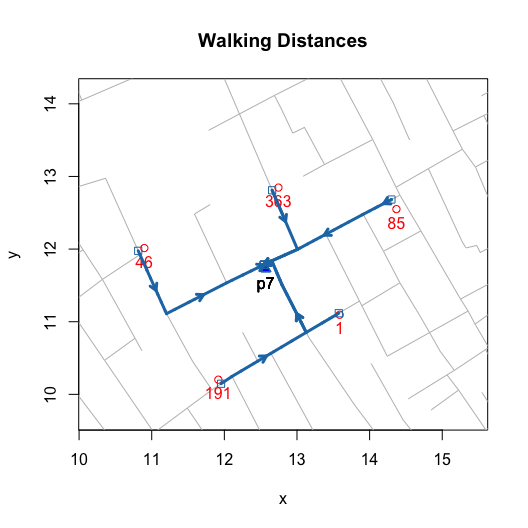
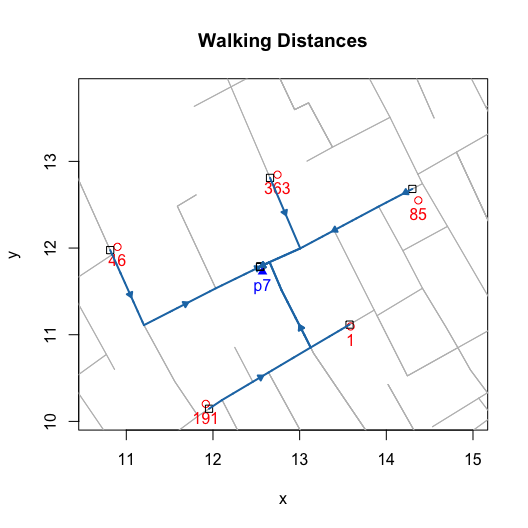
set streetNameLocator(zoom = -35)

diff --git a/README.md b/README.md
@@ -124,16 +124,16 @@ straight line paths between a location and the nearest (or selected)
 pump:
 
 ``` r
-streetNameLocator(zoom = 1, cases = NULL, highlight = FALSE, add.subtitle = FALSE, add.title = FALSE)
+streetNameLocator(zoom = -35, cases = NULL, highlight = FALSE, add.subtitle = FALSE, add.title = FALSE)
 title(main = "Walking Distances")
 invisible(lapply(c(1, 191, 46, 363, 85), addWalkingPath))
 
-streetNameLocator(zoom = 1, cases = NULL, highlight = FALSE, add.subtitle = FALSE, add.title = FALSE)
+streetNameLocator(zoom = -35, cases = NULL, highlight = FALSE, add.subtitle = FALSE, add.title = FALSE)
 title(main = "Euclidean Distances")
 invisible(lapply(c(1, 191, 46, 363, 85), addEuclideanPath))
 ```
 
-<img src="man/figures/README-unnamed-chunk-4-1.png" width="50%" /><img src="man/figures/README-unnamed-chunk-4-2.png" width="50%" />
+<img src="man/figures/README-unnamed-chunk-4-1.png" alt="" width="50%" /><img src="man/figures/README-unnamed-chunk-4-2.png" alt="" width="50%" />
 
 To build a neighborhood, we apply this algorithm to each location or
 “address” with at least one observed fatality. This builds the
